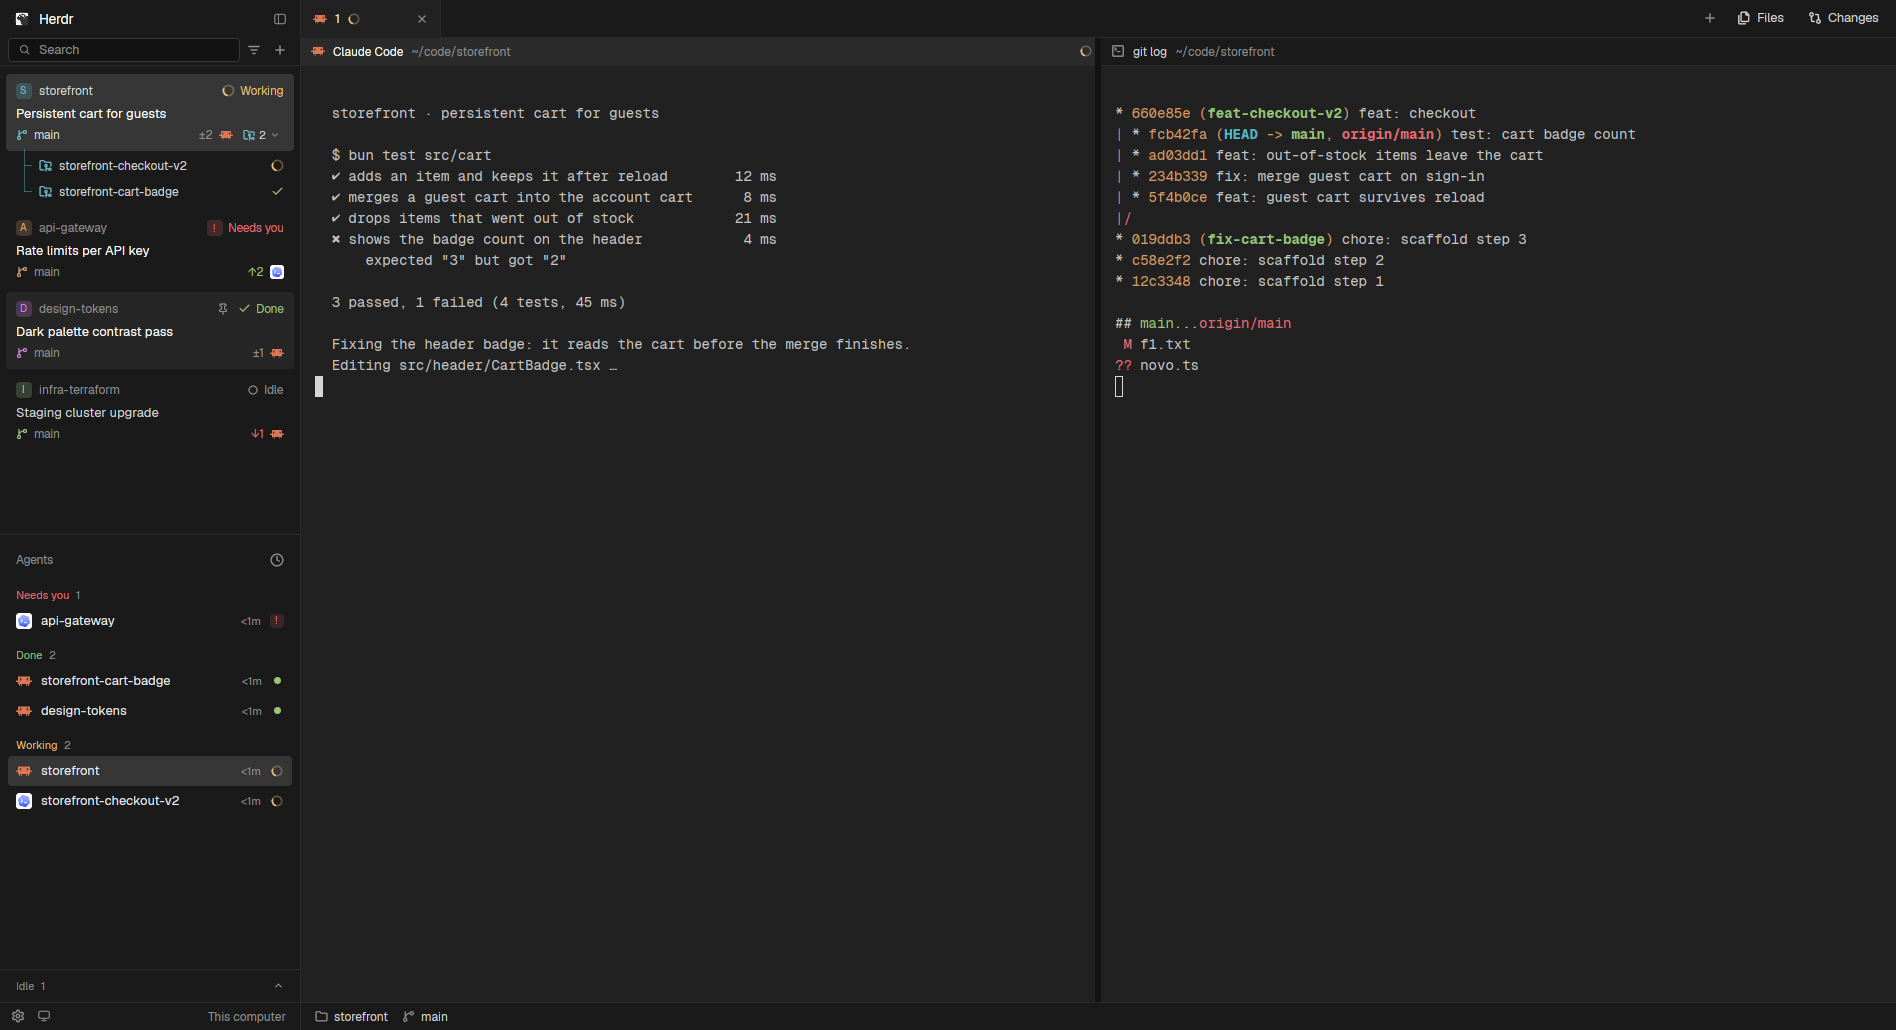
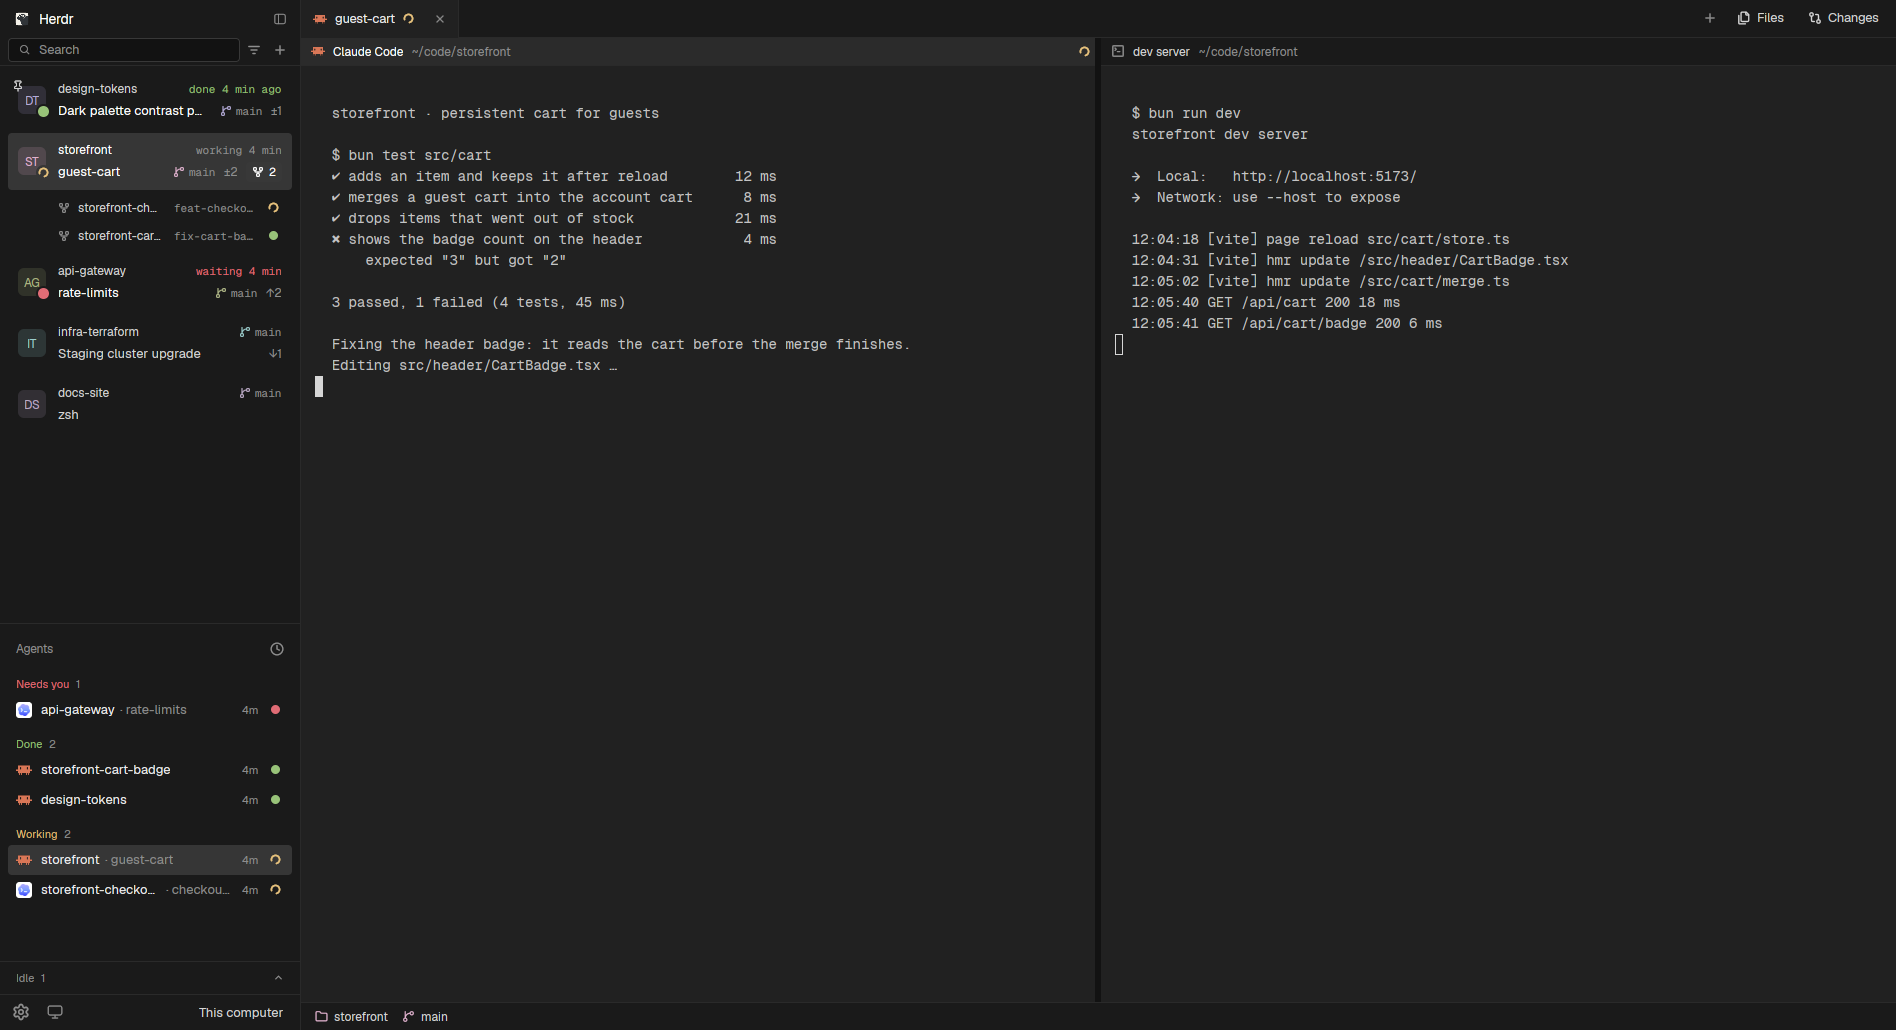
feat: rodapé de 36 px, divisão 3:2 e preview novo (#9)
* feat: divisão da barra lateral em 3:2

* docs: refaz a miniatura do layout em 3:2

* feat: rodapé da barra lateral em 36 px

* docs: refaz o preview com cards e rodapé novos

diff --git a/mods/noctua-chrome/main.js b/mods/noctua-chrome/main.js
@@ -47,29 +47,29 @@ const openPicker = () => run("mod.open", { name: "picker" });
 
 export default class NoctuaChrome extends View {
   // A square icon button; presses stop here so the block's window drag doesn't take them.
-  button(id, icon, action, { size = 28, color, tip } = {}) {
+  button(id, icon, action, { size = 28, icon: glyph = 14, color, tip } = {}) {
     const t = theme();
     return div().id(id).size(size).flex_none().flex().items_center().justify_center().rounded(R)
       .text_color(color ?? t.dim).hover((s) => s.bg(t.hover).text_color(bright(t)))
       .when(Boolean(tip), (el) => el.tooltip(tip))
       .on_mouse_down("left", (_e, cx) => cx.stop_propagation()).on_click(action)
-      .child(svg(`${ICONS}/${icon}.svg`).size(14));
+      .child(svg(`${ICONS}/${icon}.svg`).size(glyph));
   }
 
-  // 28 px with a border on top, the same line as the status bar beside it.
+  // 36 px with a border on top, 8 px taller than the status bar beside it on purpose.
   footer(t, collapsed) {
     const bar = h_flex().size_full().bg(t.chrome).border_t(1).border_color(t.border);
     if (collapsed) return bar;
     const ready = Boolean(updates().app.ready);
     const machine = spaces().find((s) => s.active)?.machine ?? "This computer";
     const settingsButton = div().relative().flex_none()
-      .child(this.button("settings", "settings", () => run("app.settings"), { size: 24, tip: ready ? "Settings (update ready)" : "Settings" }))
+      .child(this.button("settings", "settings", () => run("app.settings"), { size: 30, icon: 18, tip: ready ? "Settings (update ready)" : "Settings" }))
       .when(ready, (el) => el.child(div().absolute().top(3).right(3).size(6).rounded(R).bg(t.accent)));
-    return bar.px(6).gap(2).items_center()
+    return bar.px(6).gap(4).items_center()
       .child(settingsButton)
-      .child(this.button("machines", "monitor", () => run("mod.open", { name: "machine-add" }), { size: 24, tip: "Machines" }))
+      .child(this.button("machines", "monitor", () => run("mod.open", { name: "machine-add" }), { size: 30, icon: 18, tip: "Machines" }))
       .child(div().flex_1())
-      .child(div().pr(8).min_w(0).truncate().text_size(12).text_color(t.dim).child(machine));
+      .child(div().pr(10).min_w(0).truncate().text_size(13).text_color(t.muted).child(machine));
   }
 
   // The rail, as in T3: the Herdr logo, which turns into the open button under the

diff --git a/RECIPE.md b/RECIPE.md
@@ -10,7 +10,7 @@ Left to right, at zoom 1, theme `noctua` (`themes/noctua.json`: background `#212
 
 - **Sidebar**, 300 px, background chrome, 1 px border `#2a2a2a` divider on its right. Top to bottom:
   - **Brand**, 66 px, drags the window, in the same lines as the tab bar and the pane header beside it. Row 1, 38 px: the Herdr logo (16 px), "Herdr" 13.5 px semibold white, and the fold button (panel icon). Row 2, 28 px: a Search field (24 px tall, canvas fill, 1 px input border, magnifier, "Search"; the picker's key from `keys.json`, e.g. `Ctrl Shift K`, shows only in its tooltip), a filter button (list-filter icon) and a + for a new space, both 24 px. New agents start from the + on the tab bar. A 1 px border closes the block at the pane header's line.
-  - **Spaces**, 7 parts to the agents list's 1 of the sidebar between brand and footer at first; the line between them drags, and Herdr keeps where it was left. No label row: 6 px of space, then one card per space, 61 px each (57 px card, 4 px under it), 8 px in from the sidebar's sides, 10 px of space at the end. Each card, 10 px in, holds the space's **avatar** and two lines beside it, 12 px apart:
+  - **Spaces**, 3 parts to the agents list's 2 of the sidebar between brand and footer at first; the line between them drags, and Herdr keeps where it was left. No label row: 6 px of space, then one card per space, 61 px each (57 px card, 4 px under it), 8 px in from the sidebar's sides, 10 px of space at the end. Each card, 10 px in, holds the space's **avatar** and two lines beside it, 12 px apart:
     - Avatar, 28 px, 6 px corners: two letters, 11.5 px weight 600, in the space's color lightened 12%, on that color at 16% over the card's fill. The letters: a name of more than one word (split on `-`, `_`, `.` or space) takes the first letters of its first two words (`crm-next` CN); a one-word name takes its first letter and the first consonant after it (`notas` NT, `destrinchando` DS). The line box is as tall as the font, so the capitals sit in the middle (measured on 31 October 2026: 10 px above and 9 below in 28; the old 16 px monogram on a 16 px line box had them 1 px high). The state seal sits on its bottom right corner, 3 px out: an 11 px dot in a 2 px cut-out of the card's fill (selected, hover or chrome, whichever the card shows). Blocked a red dot, done a green dot, working a turning yellow arc, idle and no agent nothing. On the top left corner, half out, a 12 px upright pin with no fill: always on a pinned space, white at 80%, turning into pin-off under the pointer; on another space only under the pointer, white at 50%. Clicking it pins or unpins without showing the space. The rail's avatars carry the pin of a pinned space too.
     - Line 1, 18 px: the name, 12 px (white on the shown space, muted on the rest), and at the right the branch: the git-branch icon in the space's color lightened 12% and the branch in Geist Mono 11 px dim. A space outside a repo shows no branch. When the space is blocked, working or done, the right side says for how long instead, in Geist Mono 11 px: "waiting 14 min" in red, "working 30 min" in dim, "done 4 min ago" in green (under a minute "<1 min", past an hour "2 h", past a day "1 d"); the branch then moves to line 2, before the counts, at most 90 px wide.
     - Line 2, 20 px: the shown tab's title, 13 px weight 500, white (muted when the space is idle and not shown): the tab's name if someone named it, else the title its agent set. Then ↑ahead, ↓behind and ±uncommitted, all 11.5 px dim, and on a repo with worktree spaces the worktree button at the end: 20 px tall, 6 px in, the 12 px fork icon and the count in Geist Mono 11.5 px, gray and with no fill; red while a hidden worktree is blocked; the `input` fill on hover and while open, with white text; closed over the shown worktree, the selected fill, the only mark of where you are. No program icons on the card.
@@ -18,18 +18,18 @@ Left to right, at zoom 1, theme `noctua` (`themes/noctua.json`: background `#212
     **Colors**, Sanzo Wada's "Wada pó" from *A Dictionary of Color Combinations*, 12 colors in the order spaces take them: `#dda8c8`, `#78b79e`, `#d6a582`, `#a5ae77`, `#aa9fd3`, `#8fc7c6`, `#b39fbf`, `#bab37c`, `#95c9a4`, `#caa1cc`, `#78c1b6`, `#e4ac92`. Each open space keeps its color unless another open space had it first; a space without one of these colors, or with a repeated one, takes the free color farthest in OKLCH hue from those in use (past 12 spaces, the least used). The old theme names (`ansi6`, `ansi3`…) move to this palette once, the first time the list draws.
   - **Agents**, the rest, 1 px border on top: Herdr's agents list with an Idle drawer. "Agents" label with a sort button (Priority or Grouped by space); in Priority, the list holds Pinned, Needs you, Done and Working, and Idle is a drawer fixed at the bottom, against the footer: a 1 px border on top, a 32 px head ("Idle", the count, a chevron up when closed and down when open), then its rows (at most 150 px, scrolling). Closed, it still shows the focused idle agent; open, all of them. Grouped by space keeps one section per space with its idle agents in it. Each row 30 px: the program's real icon, "space · task", time since its state changed, and its state dot in a 16 px slot. Sub-agents nest under their parent with tree lines.
   - Both lists scroll with the theme's scrollbar always shown, at 45% opacity (`#3b3b3b` on chrome, measured) and full while the pointer is over the list.
-  - **Footer**, 28 px, border on top, on the same line as the status bar: Settings (with a 6 px accent square when an update is ready), Machines, and the shown space's machine in dim at the right ("This computer" for this one).
+  - **Footer**, 36 px, border on top, 8 px taller than the 28 px status bar beside it on purpose, so its top border sits 8 px above the status bar's: Settings (with a 6 px accent square when an update is ready) and Machines as 30 px buttons with 18 px icons, 4 px apart, 6 px in, and the shown space's machine at the right in 13 px muted, 10 px from the edge ("This computer" for this one).
 - **Work column**, the rest:
   - **Tabs**, 38 px, chrome, drags the window. Tabs are docked: 140 to 260 px wide, 12 px in on the left, a 1 px border between them. Each shows its program's icon, its session's name by the rule of a space card's line 2 (the tab's name if someone named it, else the title its agent set, else the program's name), cut with an ellipsis, its state dot (9 px; nothing when idle) and a × that shows on the active tab or under the pointer. The active tab takes the terminal's background `#212121` and the foreground color, with no line under it and no colored border, so it runs into the pane; every other tab and the empty bar keep a 1 px bottom border. At the right: + (the new-menu), Files and Changes (28 px; the open one gets the hover fill, a 1 px input border and white text), then minimize, maximize and close where the system draws no window buttons.
   - **Panes**, on the canvas `#121212`, 6 px apart, no padding around them, no border, radius 0, framed even when alone. Each has a 28 px header: program icon, name (font medium), folder in dim, and its state dot (nothing when idle). The focused pane's header is raised `#2b2b2b` with a white name; the others are chrome with a muted name. A 1 px border under the header. Terminal padding 14 by 12.
   - **Side panel**, hidden until Files or Changes opens it: 368 px (280 to 900), 6 px from the panes, a stack of `noctua-files` and `noctua-changes`. Each is square and flush like a pane, on the `background` fill, with no border: a 28 px header on chrome (title 12 px medium in muted, then dim details; its 1 px border falls in the pane headers' line), rows of 28 px with 4 px corners (hover `#262626`, the open file selected with white text), and for Changes a file count chip (4 px corners, `input` border), +/− in green and red, and a commit row (8 px padding: a 28 px message field on canvas with an `input` border, dim when typing, and a 28 px Commit button in the solid fill).
-  - **Status bar**, 28 px, border on top: the focused pane's folder name (the full path in a tooltip) and its git branch, each with its icon in the shown space's color lightened 12% (the avatar's letters); the text stays muted. No machine (the footer beside it has it), no agents, no palette hint.
+  - **Status bar**, 28 px, border on top, thin; it doesn't line up with the 36 px sidebar footer, by choice: the focused pane's folder name (the full path in a tooltip) and its git branch, each with its icon in the shown space's color lightened 12% (the avatar's letters); the text stays muted. No machine (the footer beside it has it), no agents, no palette hint.
 
 ## How it behaves
 
 - Agent state has one mark everywhere (the space's avatar, the tabs, the pane headers, the agents list, the worktree lines): a red dot for blocked, a green dot for done, a turning yellow arc for working, a gray ring for idle in the agents list and on worktree lines (nothing for idle on the avatar, tabs and headers). The dot is 9 px in rows, 11 px on the avatar; the arc is 2 px wider. The card says for how long: blocked since its longest-waiting tab changed (`TabInfo.changed_at`), working since its earliest `working_since`, done since its latest `changed_at`; the times count up once a minute. A space and a tab show their most urgent agent: blocked > done > working > idle.
 - Brand: Search and the filter button open the space picker (`mod.open {name: "picker"}`); + runs `space.new`. The fold button turns the sidebar into a 52 px rail (76 on macOS) and back to the width it had.
-- Rail (sidebar under 160 px): the brand block keeps the Herdr logo, which turns into the panel icon under the pointer and opens the sidebar, and Search (on macOS the traffic lights take the first row, so both share the second); its bottom border is the thin line under them. Under it, the spaces block shows each space as its 28 px avatar with the seal in a 36 px slot, 4 px apart (the shown space, or a repo whose worktree is shown, on the selected fill; a repo's seal is the most urgent of it and its worktrees), then a + for a new space. Click an avatar to show the space, right-click for its menu, hover for its name. The agents block shows only, at its bottom, a 28 px wide line and the Settings (with the update dot) and Machines buttons; the footer keeps its top border so the bottom line runs across.
+- Rail (sidebar under 160 px): the brand block keeps the Herdr logo, which turns into the panel icon under the pointer and opens the sidebar, and Search (on macOS the traffic lights take the first row, so both share the second); its bottom border is the thin line under them. Under it, the spaces block shows each space as its 28 px avatar with the seal in a 36 px slot, 4 px apart (the shown space, or a repo whose worktree is shown, on the selected fill; a repo's seal is the most urgent of it and its worktrees), then a + for a new space. Click an avatar to show the space, right-click for its menu, hover for its name. The agents block shows only, at its bottom, a 28 px wide line and the Settings (with the update dot) and Machines buttons; the footer keeps its top border, 8 px above the status bar's.
 - Spaces: ↑↓± on a card or worktree line is a button: it opens the Changes panel on that space (on another space, noctua-spaces writes shared `noctua.panel.open` = `{space, panel, at}` and shows the space; noctua-tabs applies a request under 2 s old, once, on the first render that sees it). Click a card or line to show the space, drag one onto another to move it, right-click for Herdr's space menu. Hover a card for its pin button: pinned cards stay on top, with their worktrees, and keep a pin. A repo's worktree button opens and closes its worktree lines without showing the space; the open repos are kept in the mod's `localStorage` (`worktrees.open`) across restarts, all closed at first. Click a machine header to fold it; its + makes a space there.
 - Agents: click a row to focus its pane, hover for its pin, click a header to fold a group. Click the Idle head to open or close the drawer; the choice is kept in the mod's `localStorage` (`idle.open`), closed at first.
 - Tabs: click to show, drag onto another tab to move it, double-click to rename, right-click for Herdr's tab menu, wheel over the bar for the next or previous tab, × to close. Files and Changes toggle the side panel; the choice is remembered per space.
@@ -39,7 +39,7 @@ Left to right, at zoom 1, theme `noctua` (`themes/noctua.json`: background `#212
 ## Built from
 
 - `layouts/noctua.json`. Root: `row`, `"titlebar": "none"`, `"traffic_lights": [12, 16]`, theme `noctua`, background `canvas`, `terminal_padding: [14, 12]`, 1 px border divider.
-  - `sidebar` column, 300 px (52 to 480), chrome, not resizable: `brand` block (66 px, `window_drag`, mod `noctua-chrome`), `sidebar-lists` column with `spaces` (`noctua-spaces`, weight 7) and `agents` (`noctua-agents`, weight 1), min 90 each, resizable: a drag lives in `layouts/.state/` and survives restarts, and nothing in the mods resizes them; `sidebar-footer` block (28 px, `noctua-chrome` with props `{ "footer": true }`).
+  - `sidebar` column, 300 px (52 to 480), chrome, not resizable: `brand` block (66 px, `window_drag`, mod `noctua-chrome`), `sidebar-lists` column with `spaces` (`noctua-spaces`, weight 3) and `agents` (`noctua-agents`, weight 2), min 90 each, resizable: a drag lives in `layouts/.state/` and survives restarts, and nothing in the mods resizes them; `sidebar-footer` block (36 px, `noctua-chrome` with props `{ "footer": true }`).
   - `work` column, not resizable: `tabs` block (38 px, `window_drag`, `noctua-tabs`); `work-body` row (padding 0, gap 6) with `main` (`{ "tab": "active" }`, pane frame: gap 6, radius 0 or 4, background `background`, `lone: true`, border width 0, header `noctua-pane` 28 px on top, always shown) and `panel` (hidden column, 368 px, stack `panel-body` of blocks `files` and `changes`, mods `noctua-files` and `noctua-changes`); `status` block (28 px, `noctua-status`).
 - Mods, all `"place": "none"`, each started as a copy of Herdr's mod of the same role:
   - `noctua-chrome` (from `workspace-chrome`): brand and footer by `props().footer`. Holds the shared icons the others use (`mods/noctua-chrome/*.svg`: lucide `search`, `list-filter`, `square-pen`, `sidebar`, `settings`, `monitor`, `server`, `plus`, `minus`, `square`, `x`, `check`, `circle`, `spinner`, `pin`, `pin-off`, `git-branch`, `folder`, `folder-git-2`, `files`, `git-compare`, `terminal`, `chevron-*`, `clock`, `layers`, `fork` for git-fork; `dot-spin`, the working arc: a 270° stroke 4 on a 24 grid). Calls `keys()`, `updates()`, `spaces()`, `layout()`, `run("mod.open")`, `run("app.settings")`, `run("layout.resize")`, `openOverlay({ mod: "new-menu", kind: "popup" })`, `setShared("sidebar.width" | "sidebar.collapsed")`. Logo: `frame/welcome/herdr.png`.
